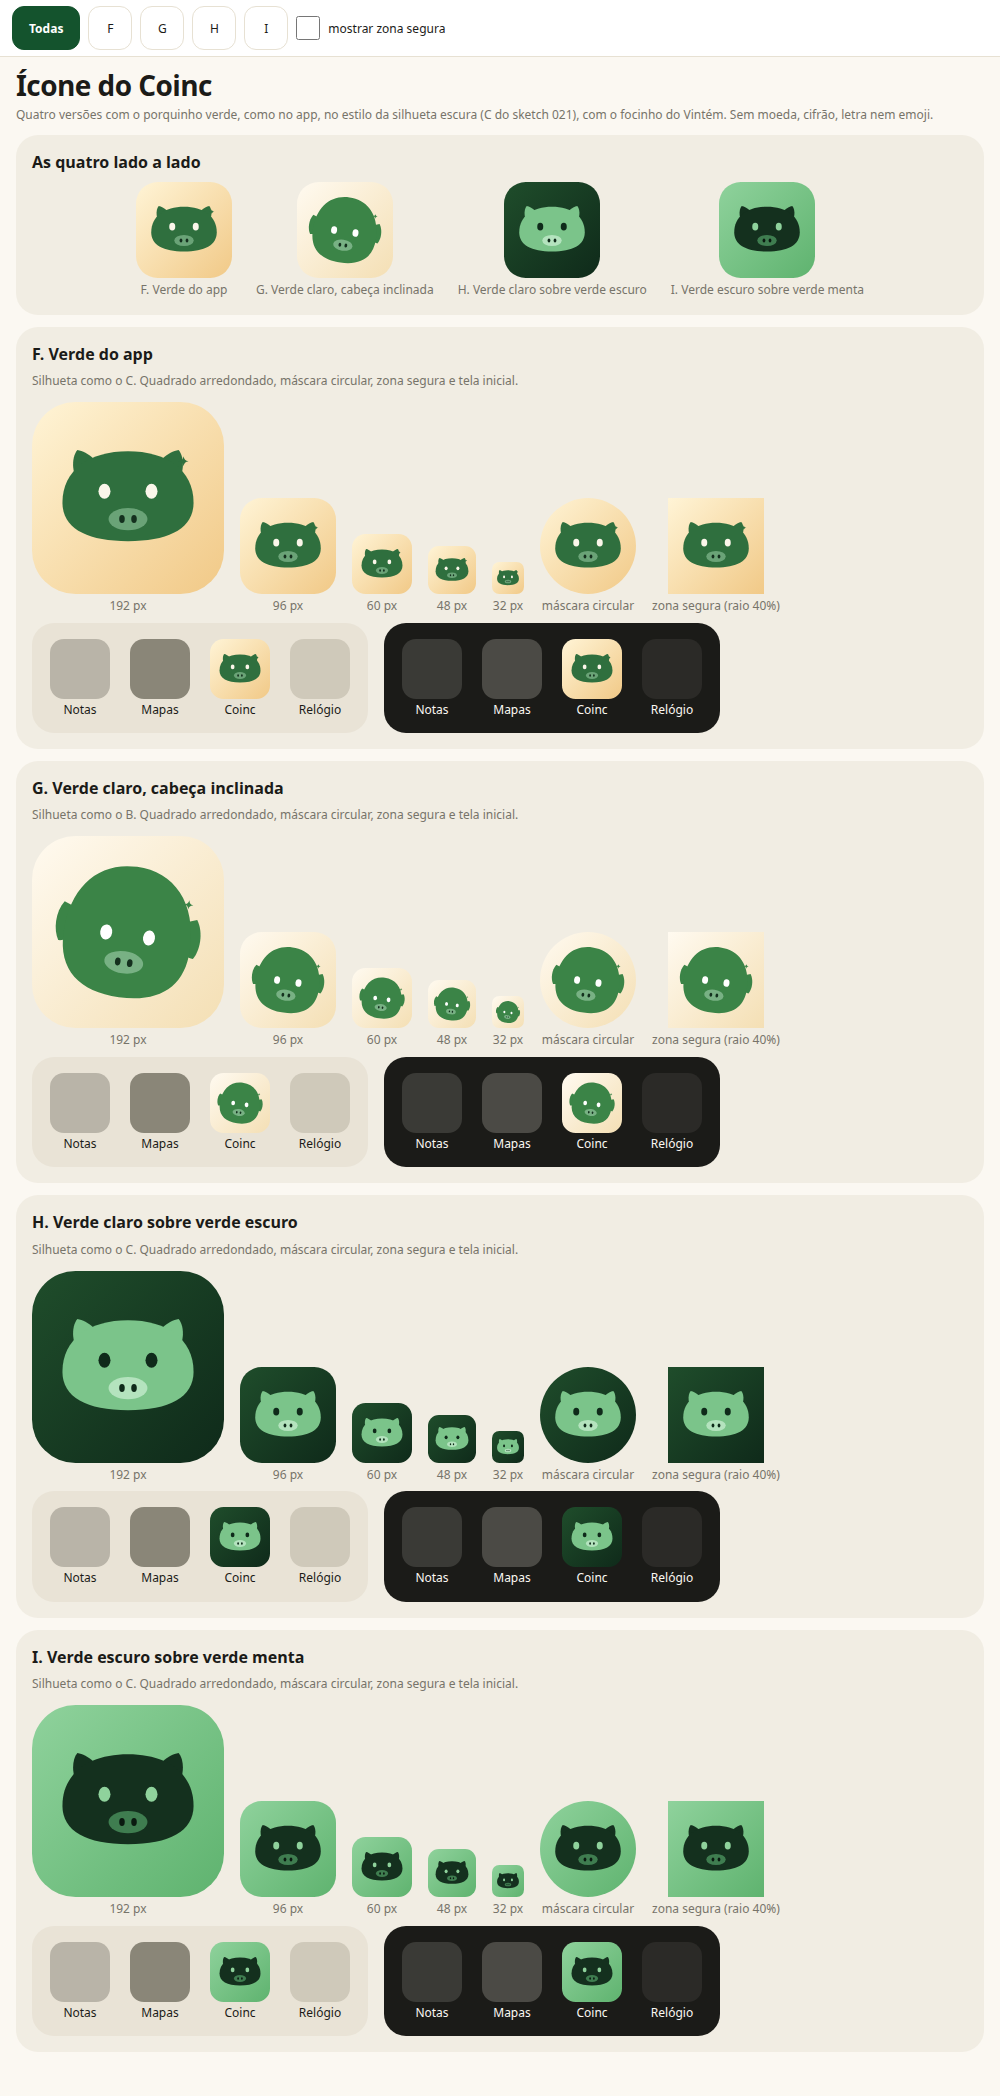
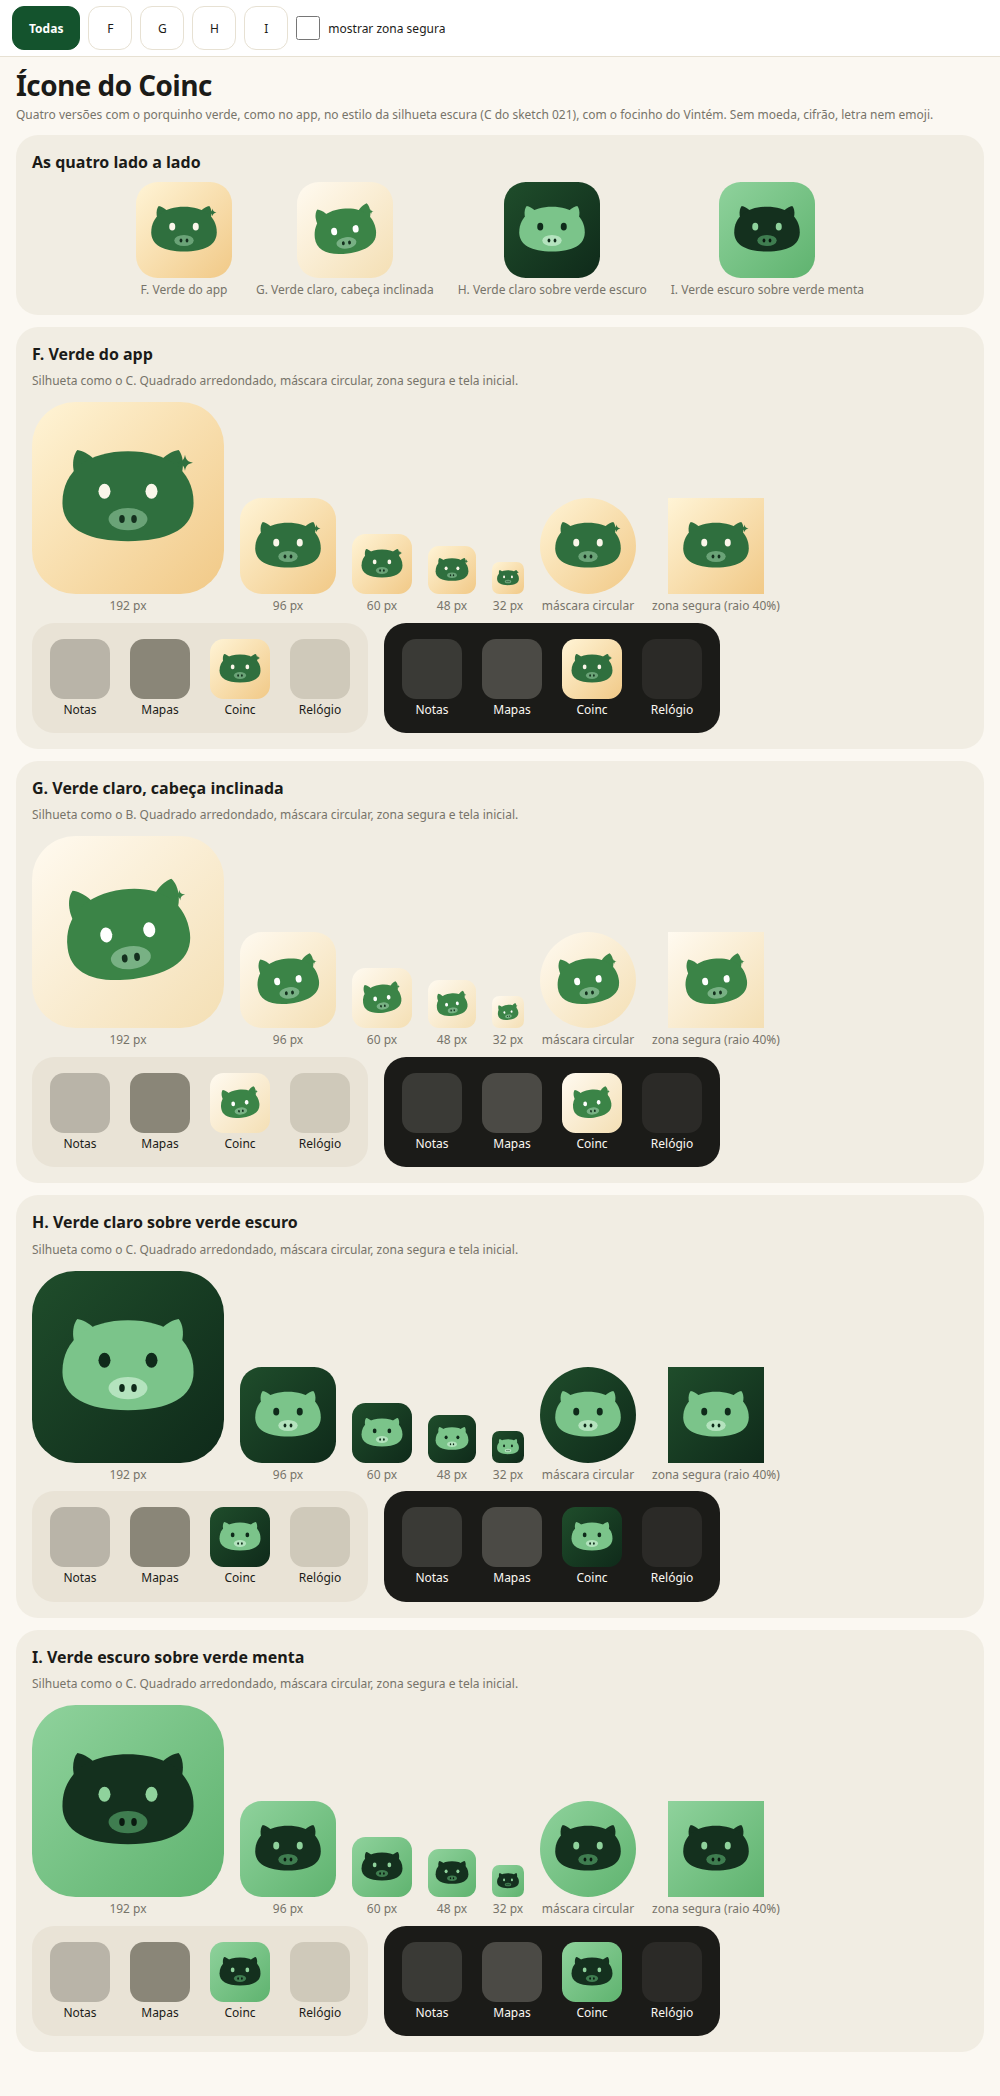
feat(05-05): G do sketch 022 com cabeça gorda e orelhas de porco; brilho maior no F

diff --git a/.planning/sketches/022-icone-verde/index.html b/.planning/sketches/022-icone-verde/index.html
@@ -95,16 +95,17 @@ function snoutEl(v,cx,cy,k){
 function art(v){
  var d=VERS[v],sil=d.sil,s,tf,inner;
  if(v==='g'){
-  s=1.6;
-  inner=pigEar(sil,28,92,-160,1.15,false)+pigEar(sil,212,92,-160,1.15,true)+
-   '<path data-role="sil" d="'+G.body+'" transform="translate(120 111) scale(1.155 1.74) translate(-120 -111)" fill="'+sil+'"/>'+
-   eyeEl(v,84,116,s)+eyeEl(v,156,116,s)+snoutEl(v,120,162,1.55)+sparkEl(v,214,52,0.55);
-  tf='translate(256 256) rotate(8) scale('+s+') translate(-120 -111)';
+  /* cabeca inclinada, mais gorda e baixa (como o corpo do Vintem), orelhas de porco sobre o topo, focinho grande */
+  s=1.7;
+  inner=pigEar(sil,58,76,-24,1.0,false)+pigEar(sil,182,76,-24,1.0,true)+
+   '<path data-role="sil" d="'+G.body+'" transform="translate(120 111) scale(1.05 1.12) translate(-120 -111)" fill="'+sil+'"/>'+
+   eyeEl(v,86,108,s)+eyeEl(v,154,108,s)+snoutEl(v,120,148,1.5)+sparkEl(v,208,60,0.6);
+  tf='translate(256 262) rotate(-7) scale('+s+') translate(-120 -111)';
  }else{
   s=1.9;
   inner=pigEar(sil,66,84,-28,0.9,false)+pigEar(sil,174,84,-28,0.9,true)+
    '<path data-role="sil" d="'+G.body+'" fill="'+sil+'"/>'+eyeEl(v,87,104,s)+eyeEl(v,153,104,s)+snoutEl(v,120,143,1.3)+
-   (v==='f'?sparkEl(v,198,62,0.5):'');
+   (v==='f'?sparkEl(v,200,64,0.8):'');
   tf='translate(256 238) scale('+s+') translate(-120 -104)';
  }
  return {inner:inner,tf:tf,s:s};
